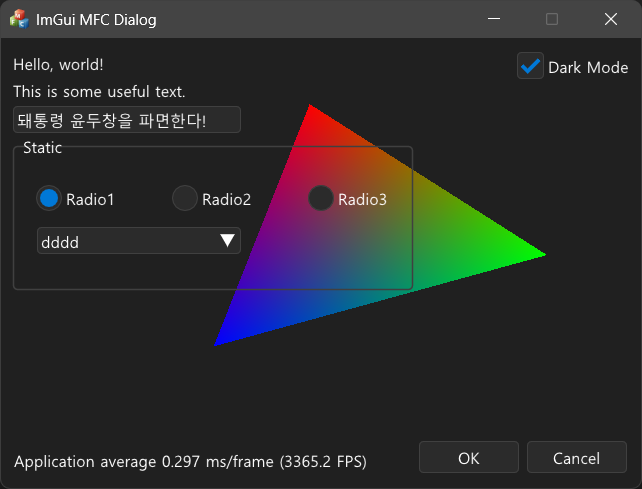
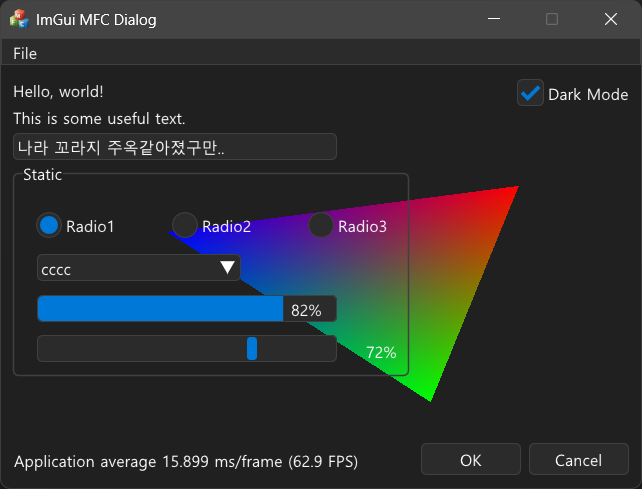
insert mainmenubar.

diff --git a/ImGuiDialog.cpp b/ImGuiDialog.cpp
@@ -42,7 +42,7 @@ CStringA utf8(LPCWSTR u16)
 IMPLEMENT_DYNAMIC(CImGuiDialog, CDialog)
 
 CImGuiDialog::CImGuiDialog(UINT nIDTemplate, CWnd* pParent)
-	: CDialog(nIDTemplate, pParent), m_bDarkMode(false), m_bImGuiInited(false), m_bRenderOk(false)
+	: CDialog(nIDTemplate, pParent), m_bDarkMode(false), m_bImGuiInited(false), m_bRenderOk(false), m_pMenu(nullptr)
 {
 	m_bDarkMode = !App::IsLightTheme();
 	BackColor = ImColor(IM_COL32_WHITE);
@@ -50,6 +50,11 @@ CImGuiDialog::CImGuiDialog(UINT nIDTemplate, CWnd* pParent)
 
 CImGuiDialog::~CImGuiDialog()
 {
+	if (m_pMenu) {
+		m_pMenu->DestroyMenu();
+		delete m_pMenu;
+		m_pMenu = nullptr;
+	}
 }
 
 void CImGuiDialog::DoDataExchange(CDataExchange* pDX)
@@ -79,6 +84,10 @@ BOOL CImGuiDialog::OnInitDialog()
 		return FALSE;
 	}
 	wglMakeCurrent(g_MainWindow.hDC, g_hRC);
+
+	if (GetMenu()) {
+		assert(0 && "must use SetMenu(UINT) before OnInitDialog()");
+	}
 
 	CRect rect;
 	GetClientRect(rect);
@@ -136,6 +145,18 @@ CImGuiDialog::ImCtrl* CImGuiDialog::GetDlgItem(UINT nID) const
 	return nullptr;
 }
 
+bool CImGuiDialog::SetMenu(UINT nMenuID)
+{
+	delete m_pMenu;
+	m_pMenu = new CMenu();
+	if (!m_pMenu->LoadMenu(nMenuID)) {
+		delete m_pMenu;
+		m_pMenu = nullptr;
+		return false;
+	}
+	return true;
+}
+
 CImGuiDialog::CtrlType CImGuiDialog::GetCtrlType(LPCTSTR lpszClassName, DWORD dwStyle)
 {
 	if (_tcscmp(lpszClassName, WC_BUTTON) == 0) {
@@ -157,6 +178,10 @@ CImGuiDialog::CtrlType CImGuiDialog::GetCtrlType(LPCTSTR lpszClassName, DWORD dw
 		return CtrlType::ScrollBar;
 	} else if (_tcscmp(lpszClassName, WC_COMBOBOX) == 0) {
 		return CtrlType::ComboBox;
+	} else if (_tcscmp(lpszClassName, PROGRESS_CLASS) == 0) {
+		return CtrlType::ProgressBar;
+	} else if (_tcscmp(lpszClassName, TRACKBAR_CLASS) == 0) {
+		return CtrlType::Slider;
 	}
 	return CtrlType::None;
 }
@@ -224,15 +249,41 @@ bool CImGuiDialog::RenderImpl(HDC hDC)
 	ImGui_ImplWin32_NewFrame();
 	ImGui::NewFrame();
 
+	ImVec2 menubar_size;
+	if (m_pMenu) {
+		if (ImGui::BeginMainMenuBar()) {
+			menubar_size = ImGui::GetWindowSize();
+			CString strMenu;
+			int iMenuCount = m_pMenu->GetMenuItemCount();
+			for (int i = 0; i < iMenuCount; i++) {
+				m_pMenu->GetMenuString(i, strMenu, MF_BYPOSITION);
+				if (ImGui::BeginMenu(utf8(strMenu))) {
+					auto pSubMenu = m_pMenu->GetSubMenu(i);
+					int iItemCount = pSubMenu->GetMenuItemCount();
+					for (int j = 0; j < iItemCount; j++) {
+						pSubMenu->GetMenuString(j, strMenu, MF_BYPOSITION);
+						if (strMenu.IsEmpty())
+							ImGui::Separator();
+						else if (ImGui::MenuItem(utf8(strMenu))) {
+							PostMessage(WM_COMMAND, pSubMenu->GetMenuItemID(j), (LPARAM)0);
+						}
+					}
+					ImGui::EndMenu();
+				}
+			}
+			ImGui::EndMainMenuBar();
+		}
+	}
+
 	const auto wndSize = ImVec2((float)rect.Width(), (float)rect.Height());
 	const char* wnd_name = "Controls";
 	ImGui::Begin(wnd_name, nullptr, ImGuiWindowFlags_NoDecoration | ImGuiWindowFlags_NoBackground | ImGuiWindowFlags_NoMove);
-	ImGui::SetWindowPos(ImVec2(0, 0));
+	ImGui::SetWindowPos(ImVec2(0, menubar_size.y));
 	ImGui::SetWindowSize(wndSize);
 	CStringA str;
 	int radio_idx = 0;
-	
 	bool pre_bool;
+	ImVec2 txt_size;
 	CtrlType preType = CtrlType::None;
 	const auto& style = ImGui::GetStyle();
 	for (auto& item : m_vtCtrls) {
@@ -254,17 +305,18 @@ bool CImGuiDialog::RenderImpl(HDC hDC)
 				PostMessage(WM_COMMAND, MAKEWPARAM(item.id, BN_CLICKED), (LPARAM)0);
 			break;
 		case CtrlType::GroupBox:
-		{
-			auto g = ImGui::GetWindowDrawList();
-			g->AddRect(ImVec2(x, y), ImVec2(x + cx, y + cy),
-				ImColor(style.Colors[ImGuiCol_Border]), style.FrameRounding, ImDrawFlags_RoundCornersAll, 1.5f);
-			auto txt_size = ImGui::CalcTextSize(item.text);
-			x += (float)theApp.ScaleDpi(8);
-			y -= m_fontHeight / 2.0f;
-			g->AddRectFilled(ImVec2(x, y), ImVec2(x + txt_size.x, y + txt_size.y), ImColor(style.Colors[ImGuiCol_WindowBg]));
-			g->AddText(ImVec2(x, y), ImColor(style.Colors[ImGuiCol_Text]), item.text);
-		}
-		break;
+			{
+				auto g = ImGui::GetWindowDrawList();
+				y += menubar_size.y;
+				g->AddRect(ImVec2(x, y), ImVec2(x + cx, y + cy),
+					ImColor(style.Colors[ImGuiCol_Border]), style.FrameRounding, ImDrawFlags_RoundCornersAll, 1.5f);
+				txt_size = ImGui::CalcTextSize(item.text);
+				x += (float)theApp.ScaleDpi(8);
+				y -= m_fontHeight / 2.0f;
+				g->AddRectFilled(ImVec2(x, y), ImVec2(x + txt_size.x, y + txt_size.y), ImColor(style.Colors[ImGuiCol_WindowBg]));
+				g->AddText(ImVec2(x, y), ImColor(style.Colors[ImGuiCol_Text]), item.text);
+			}
+			break;
 		case CtrlType::PushButton:
 			if (ImGui::Button(item.text, ImVec2(cx, cy)))
 				PostMessage(WM_COMMAND, MAKEWPARAM(item.id, BN_CLICKED), (LPARAM)0);
@@ -276,7 +328,19 @@ bool CImGuiDialog::RenderImpl(HDC hDC)
 			ImGui::PopItemWidth();
 			break;
 		case CtrlType::Static:
-			ImGui::Text(item.text);
+			switch (item.style & SS_TYPEMASK) {
+			case SS_CENTER:
+				txt_size = ImGui::CalcTextSize(item.text);
+				x += (item.rect.Width() - txt_size.x) / 2.0f;
+				ImGui::SetCursorPos(ImVec2(x, y));
+				break;
+			case SS_RIGHT:
+				txt_size = ImGui::CalcTextSize(item.text);
+				x = item.rect.right - txt_size.x;
+				ImGui::SetCursorPos(ImVec2(x, y));
+				break;
+			}
+			ImGui::TextUnformatted(item.text);
 			break;
 		case CtrlType::ListBox:
 			break;
@@ -287,6 +351,14 @@ bool CImGuiDialog::RenderImpl(HDC hDC)
 			ImGui::PushItemWidth(cx);
 			ImGui::Combo((const char*)str, &item.state.selected, "aaaa\0bbbb\0cccc\0dddd\0eeee\0\0");
 			ImGui::PopItemWidth();
+			break;
+		case CtrlType::ProgressBar:
+			ImGui::ProgressBar(item.state.progress, ImVec2((float)item.rect.Width(), (float)item.rect.Height()));
+			break;
+		case CtrlType::Slider:
+			str.Format("##%u", item.id);
+			ImGui::SetNextItemWidth((float)item.rect.Width());
+			ImGui::SliderFloat(str, &item.state.progress, 0, 100, "");
 			break;
 		}
 		preType = item.type;
@@ -328,6 +400,7 @@ void CImGuiDialog::OnDestroy()
 LRESULT CImGuiDialog::OnKickIdle(WPARAM wParam, LPARAM lParam)
 {
 	RenderImpl(NULL);
+	Sleep(10);
 	return TRUE;
 }
 

diff --git a/resource.h b/resource.h
@@ -7,20 +7,26 @@
 #define IDS_ABOUTBOX                    101
 #define IDD_MAIN_DLG                    102
 #define IDR_MAINFRAME                   128
+#define IDR_MENU1                       130
 #define IDC_EDIT1                       1000
+#define IDC_PROGRESS1                   1001
 #define IDC_CHECK1                      1002
 #define IDC_RADIO1                      1003
 #define IDC_RADIO2                      1004
 #define IDC_RADIO3                      1005
 #define IDC_COMBO1                      1006
+#define IDC_SLIDER1                     1007
+#define IDC_STATIC_SLIDER               1008
+#define ID_MAINMENU_ABOUT               32771
+#define ID_MAINMENU_EXIT                32772
 
 // Next default values for new objects
 // 
 #ifdef APSTUDIO_INVOKED
 #ifndef APSTUDIO_READONLY_SYMBOLS
-#define _APS_NEXT_RESOURCE_VALUE        130
-#define _APS_NEXT_COMMAND_VALUE         32771
-#define _APS_NEXT_CONTROL_VALUE         1000
+#define _APS_NEXT_RESOURCE_VALUE        131
+#define _APS_NEXT_COMMAND_VALUE         32773
+#define _APS_NEXT_CONTROL_VALUE         1009
 #define _APS_NEXT_SYMED_VALUE           101
 #endif
 #endif

diff --git a/ImGuiDialog.h b/ImGuiDialog.h
@@ -15,7 +15,7 @@ public:
 	virtual ~CImGuiDialog();
 
 	enum class CtrlType {
-		None, CheckBox, RadioButton, GroupBox, PushButton, Edit, Static, ListBox, ScrollBar, ComboBox };
+		None, CheckBox, RadioButton, GroupBox, PushButton, Edit, Static, ListBox, ScrollBar, ComboBox, ProgressBar, Slider };
 
 	struct ImCtrl {
 		ImCtrl() { state.selected = -1; }
@@ -29,11 +29,13 @@ public:
 		union {
 			bool	checked;
 			int		selected;
+			float	progress;
 			int*	pIndex;
 		} state;
 	};
 
 	ImCtrl* GetDlgItem(UINT nID) const;
+	bool SetMenu(UINT nMenuID);
 
 	ImVec4	BackColor;
 
@@ -54,6 +56,7 @@ private:
 	int		m_iRadioState[10];
 	std::vector<ImCtrl>	m_vtCtrls;
 	std::unordered_map<UINT, ImCtrl*>	m_mapCtrlId;
+	CMenu*	m_pMenu;
 
 protected:
 	virtual void DoDataExchange(CDataExchange* pDX);    // DDX/DDV support

diff --git a/MainDlg.h b/MainDlg.h
@@ -47,6 +47,7 @@ protected:
 	DECLARE_MESSAGE_MAP()
 	afx_msg void OnSysCommand(UINT nID, LPARAM lParam);
 	afx_msg HCURSOR OnQueryDragIcon();
+	afx_msg void OnSettingChange(UINT uFlags, LPCTSTR lpszSection);
 	afx_msg void OnAppAbout();
 	afx_msg void OnBnClickedCheck1();
 	afx_msg void OnBnClickedRadio(UINT nID);
